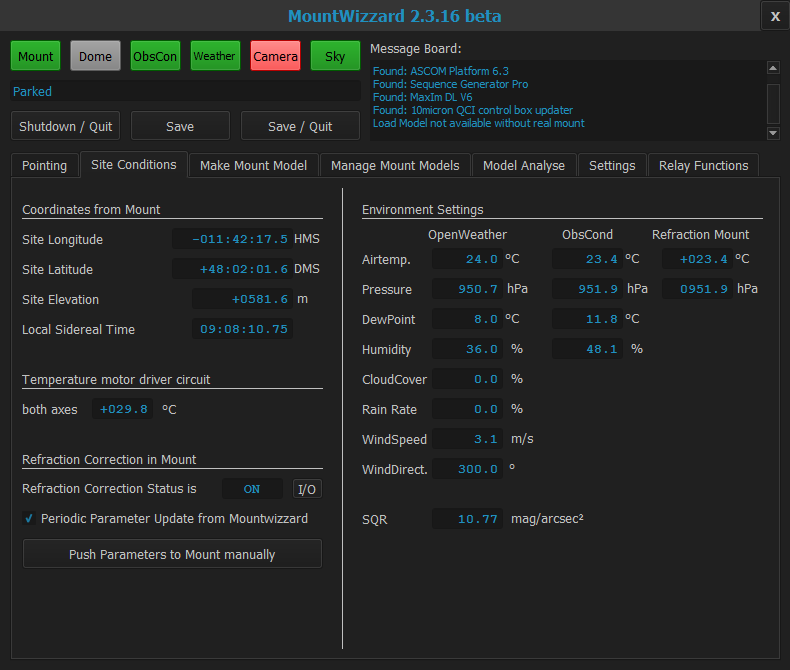
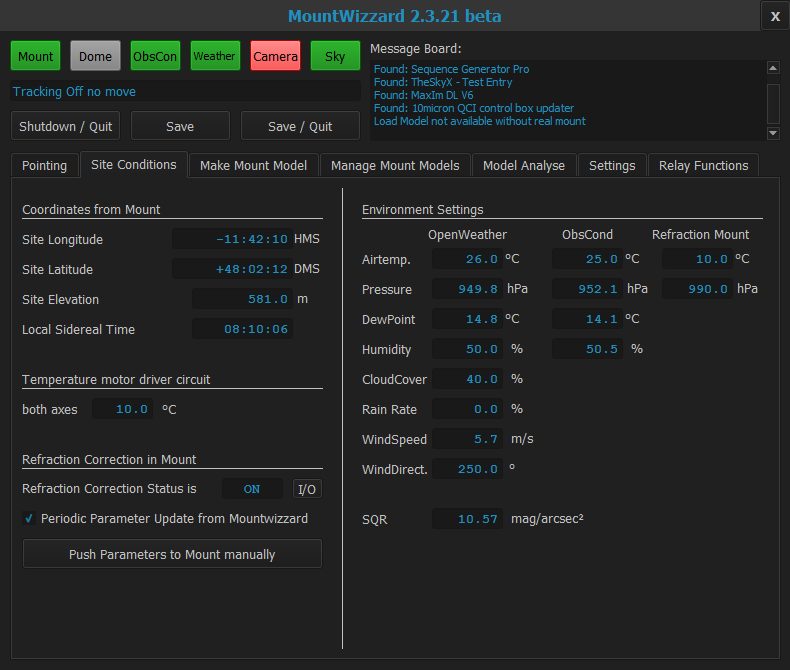
update documentation

diff --git a/mountwizzard/support/camera_theskyx.py b/mountwizzard/support/camera_theskyx.py
@@ -19,7 +19,7 @@ class TheSkyX(MWCamera):
 
     def checkAppInstall(self):
         self.appAvailable, self.appName, self.appInstallPath = self.app.checkRegistrationKeys('TheSkyX')
-        self.appAvailable = False
+        self.appName = 'TheSkyX - Test Entry'
         if self.appAvailable:
             self.app.messageQueue.put('Found: {0}'.format(self.appName))
             self.logger.debug('checkApplicatio-> Name: {0}, Path: {1}'.format(self.appName, self.appInstallPath))
